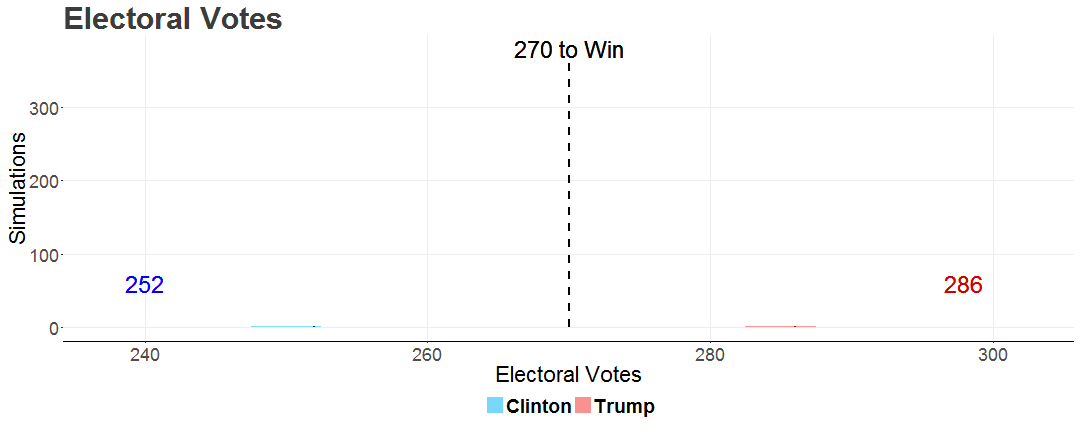
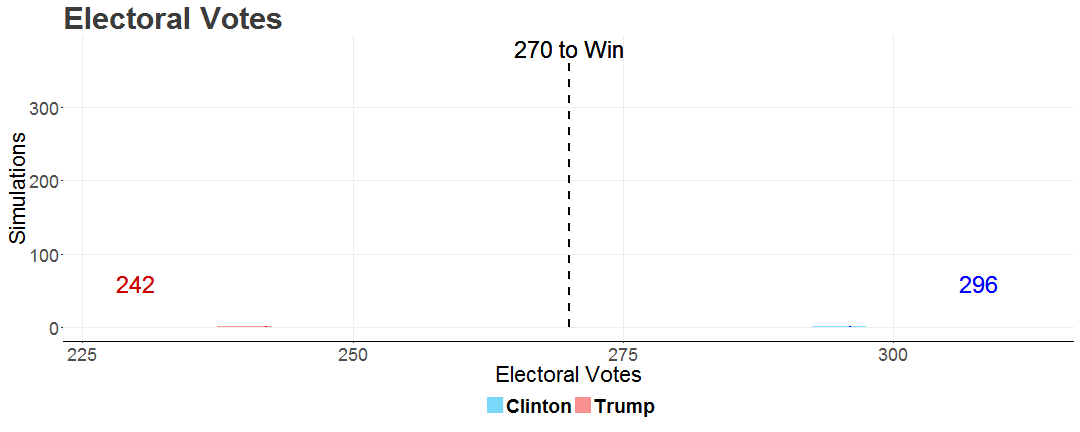
update

diff --git a/index.html b/index.html
@@ -198,34 +198,34 @@ table#t1 th {
             "fnRowCallback": function( nRow, aData, iDisplayIndex, iDisplayIndexFull ) {
   
                 if ( (aData[3].replace(/[\%,]/g, '') * 1) > 90 && (aData[3].replace(/[\%,\>]/g, '') * 1) <= 100 && aData[2]=='Trump' ) {
-                  $(nRow).css('background-color', '#CD6A76');
+                  $(nRow).css('background-color', '#B2182B');
                 }
                 if ( (aData[3].replace(/[\%,]/g, '') * 1) > 80 && (aData[3].replace(/[\%,\>]/g, '') * 1) <= 90 && aData[2]=='Trump' ) {
-                  $(nRow).css('background-color', '#f7b397');	
+                  $(nRow).css('background-color', '#F5A17E');	
                 }
                 if ( (aData[3].replace(/[\%,]/g, '') * 1) > 70 && (aData[3].replace(/[\%,\>]/g, '') * 1) <= 80 && aData[2]=='Trump' ) {
-                  $(nRow).css('background-color', '#fcd1bc');	
+                  $(nRow).css('background-color', '#FCC6AC');	
                 }
                 if ( (aData[3].replace(/[\%,]/g, '') * 1) > 60 && (aData[3].replace(/[\%,\>]/g, '') * 1) <= 70 && aData[2]=='Trump' ) {
-                  $(nRow).css('background-color', '#f6e3d9');	
+                  $(nRow).css('background-color', '#F4DDD0');	
                 }
                 if ( (aData[3].replace(/[\%,]/g, '') * 1) >= 50 && (aData[3].replace(/[\%,\>]/g, '') * 1) <= 60 && aData[2]=='Trump' ) {
-                  $(nRow).css('background-color', '#e7e7e7');	
+                  $(nRow).css('background-color', '#E2E2E2');	
                 }
                 if ( (aData[3].replace(/[\%,]/g, '') * 1) > 90 && (aData[3].replace(/[\%,\>]/g, '') * 1) <= 100 && aData[2]=='Clinton' ) {
-                  $(nRow).css('background-color', '#588bc0');	
+                  $(nRow).css('background-color', '#2F6FB1');	
                 }
                 if ( (aData[3].replace(/[\%,]/g, '') * 1) > 80 && (aData[3].replace(/[\%,\>]/g, '') * 1) <= 90 && aData[2]=='Clinton' ) {
-                  $(nRow).css('background-color', '#8bbcda');	
+                  $(nRow).css('background-color', '#6EACD1');	
                 }
                 if ( (aData[3].replace(/[\%,]/g, '') * 1) > 70 && (aData[3].replace(/[\%,\>]/g, '') * 1) <= 80 && aData[2]=='Clinton' ) {
-                  $(nRow).css('background-color', '#c5ddeb');	
+                  $(nRow).css('background-color', '#B7D5E7');	
                 }
                 if ( (aData[3].replace(/[\%,]/g, '') * 1) > 60 && (aData[3].replace(/[\%,\>]/g, '') * 1) <= 70 && aData[2]=='Clinton' ) {
-                  $(nRow).css('background-color', '#dce9f0');	
+                  $(nRow).css('background-color', '#D4E4ED');	
                 }
                 if ( (aData[3].replace(/[\%,]/g, '') * 1) >= 50 && (aData[3].replace(/[\%,\>]/g, '') * 1) <= 60 && aData[2]=='Clinton' ) {
-                  $(nRow).css('background-color', '#e7e7e7');	
+                  $(nRow).css('background-color', '#E2E2E2');	
                 }
             }
         });
@@ -289,7 +289,7 @@ table#t1 th {
           </div>
           <p></p>
       <div class="container" style="text-align: center;">
-        <h1><div class="alert alert-info" role="alert">Donald Trump has a 100% chance of being president</div></h1>    
+        <h1><div class="alert alert-info" role="alert">Hillary Clinton has a 100% chance of being president</div></h1>    
       </div>
         </div>
           <div style="text-align:right;">
@@ -308,7 +308,7 @@ table#t1 th {
 
       <div class="row">
         <div class="span12">
-          <p class="lead">Presidential elections are all about who can get to 270 electoral votes. After simulating the election ten-thousand times, the model predicts a <b>286-252 electoral win for Donald Trump</b>.</p>
+          <p class="lead">Presidential elections are all about who can get to 270 electoral votes. After simulating the election ten-thousand times, the model predicts a <b>296-242 electoral win for Hillary Clinton</b>.</p>
         </div>
       </div>
       
@@ -443,7 +443,7 @@ table#t1 th {
           </tr>
           <tr id='t1'>
             <th id='t1'>Clinton victory while losing at least 1 swing state <small>(FL, VA, NC, PA, OH)</small></th>
-            <th id='t1'><.1%</th>
+            <th id='t1'>100%</th>
           </tr>
           <tr id='t1'>
             <td id='t1'>Trump victory while losing at least 1 swing state <small>(FL, VA, NC, PA, OH)</small></td>
@@ -455,7 +455,7 @@ table#t1 th {
           </tr>
           <tr id='t1'>
             <td id='t1'>Trump wins all 5 swing states</td>
-            <td id='t1'>100%</td>
+            <td id='t1'><.1%</td>
           </tr>
           <tr id='t1'>
             <th id='t1'>Clinton outperforms Obama 2012 <small>(>332 EV)</small></th>
@@ -485,7 +485,7 @@ table#t1 th {
           <center>
             <h1>Current Forecasts</h1>
           </center>
-          <p class="lead">Here are all of the current forecasts for the general election. The model predicts that <b>Donald Trump will win 26 of 51</b> electoral contests (remember, DC gets 3 electoral votes). </p>
+          <p class="lead">Here are all of the current forecasts for the general election. The model predicts that <b>Hillary Clinton will win 25 of 51</b> electoral contests (remember, DC gets 3 electoral votes). </p>
         </div>
       </div>
       
